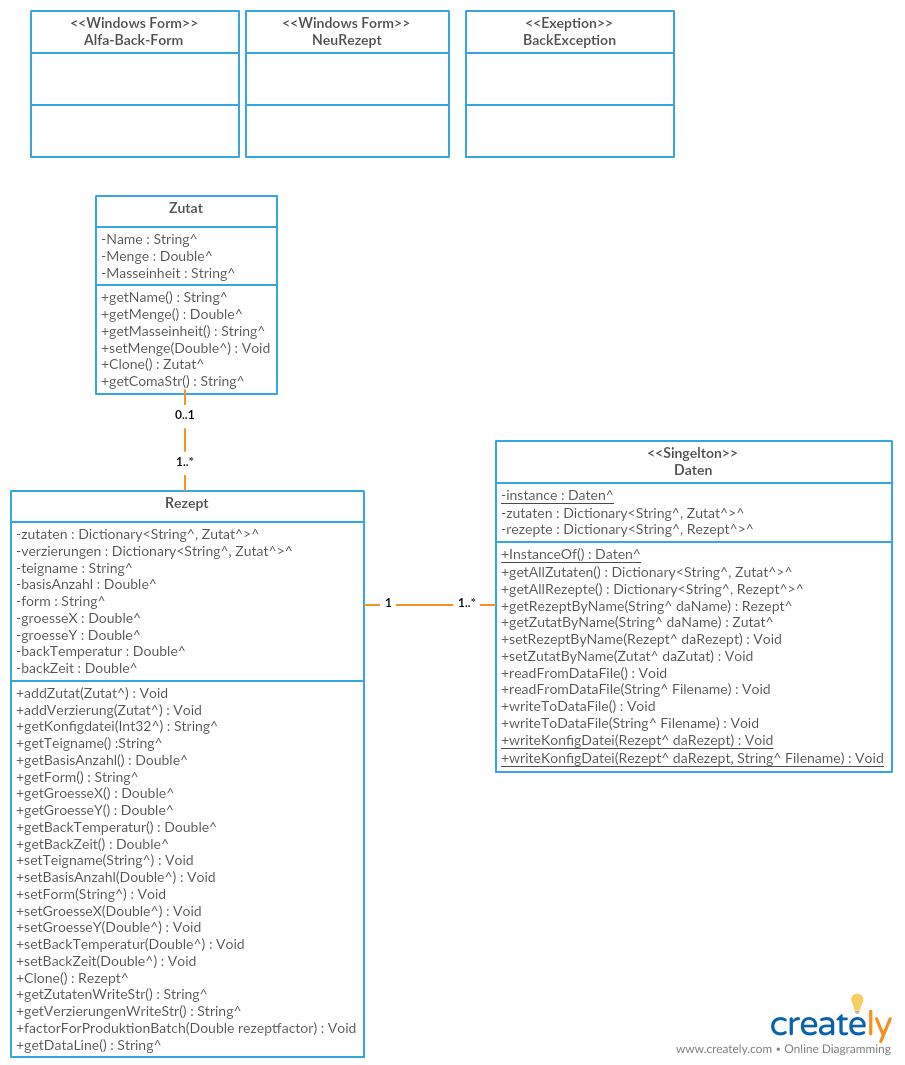
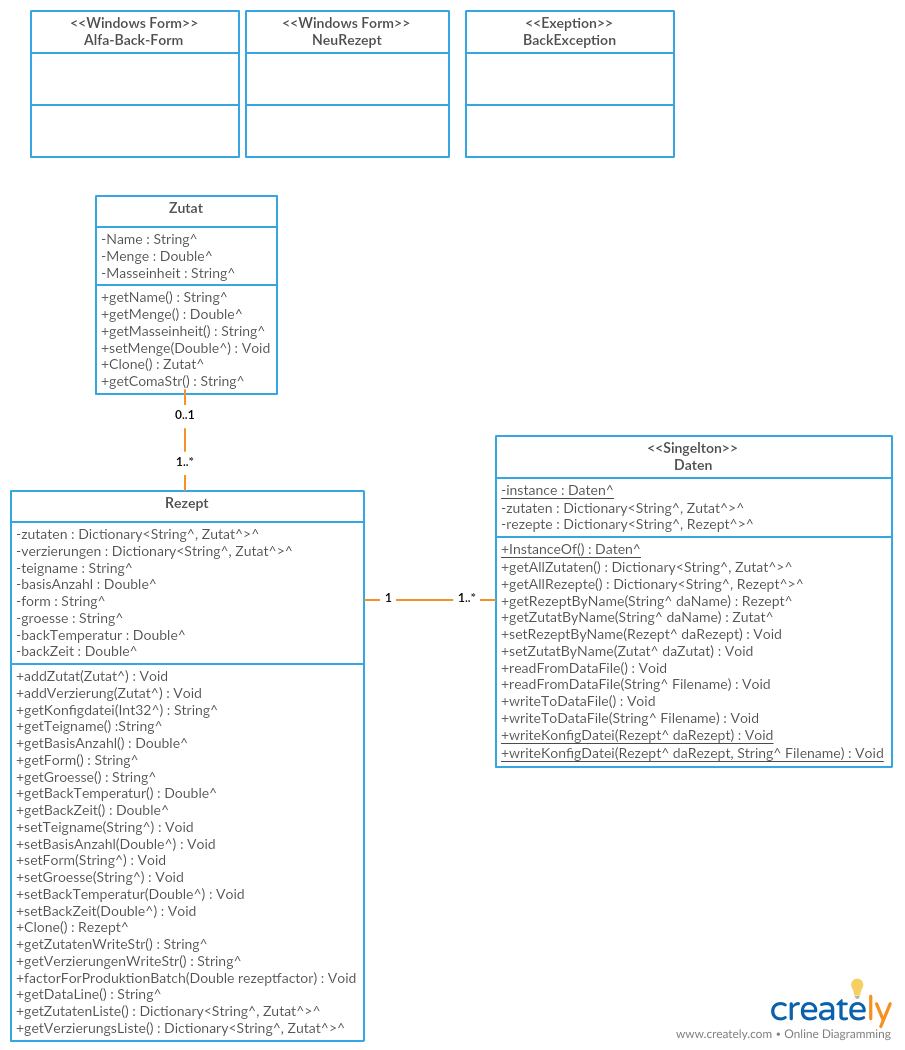
* Rezpt::groesse an neue Vorgaben angepasst; CD angepasst ; Datenspeicher angepasst

diff --git a/Alfa-Back-GUI/Rezept.cpp b/Alfa-Back-GUI/Rezept.cpp
@@ -1,12 +1,11 @@
 #include "Rezept.h"
 
-Rezept::Rezept(String^ tn, Double^ bAnz, String^ fo, Double^ gX, Double^ gY, Double^ bTemp, Double^ bz)
+Rezept::Rezept(String^ tn, Double^ bAnz, String^ fo, String^ gro, Double^ bTemp, Double^ bz)
 {
     teigname = tn;
     basisAnzahl = bAnz;
     form = fo;
-    groesseX = gX;
-    groesseY = gY;
+    groesse = gro;
     backTemperatur = bTemp;
     backZeit = bz;
 }
@@ -32,12 +31,11 @@ String^ Rezept::getKonfigdatei(Int32^ totalAnzahlKekse)
     config[0] = "teigname:" + daRezept->getTeigname();
     config[1] = "basisAnzahl:" + daRezept->getBasisAnzahl();
     config[2] = "form:" + daRezept->getForm();
-    config[3] = "groesseX:" + daRezept->getGroesseX()->ToString();
-    config[4] = "groesseY:" + daRezept->getGroesseY()->ToString();
-    config[5] = "backTemperatur:" + daRezept->getBackTemperatur()->ToString();
-    config[6] = "backZeit:" + daRezept->getBackZeit()->ToString();
-    config[7] = daRezept->getZutatenWriteStr();
-    config[8] = daRezept->getVerzierungenWriteStr();
+    config[3] = "groesse:" + daRezept->getGroesse();
+    config[4] = "backTemperatur:" + daRezept->getBackTemperatur()->ToString();
+    config[5] = "backZeit:" + daRezept->getBackZeit()->ToString();
+    config[6] = daRezept->getZutatenWriteStr();
+    config[7] = daRezept->getVerzierungenWriteStr();
     return String::Join("\t", config);
 }
 
@@ -56,14 +54,9 @@ String^ Rezept::getForm()
     return form;
 }
 
-Double^ Rezept::getGroesseX()
+String ^ Rezept::getGroesse()
 {
-    return groesseX;
-}
-
-Double^ Rezept::getGroesseY()
-{
-    return groesseY;
+    return groesse;
 }
 
 Double ^ Rezept::getBackTemperatur()
@@ -94,15 +87,9 @@ Void Rezept::setForm(String^ f)
     return Void();
 }
 
-Void Rezept::setGroesseX(Double^ gX)
+Void Rezept::setGroesse(String^ gro)
 {
-    groesseX = gX;
-    return Void();
-}
-
-Void Rezept::setGroesseY(Double^ gY)
-{
-    groesseY = gY;
+    groesse = gro;
     return Void();
 }
 
@@ -120,7 +107,7 @@ Void Rezept::setBackZeit(Double^ bZ)
 
 Rezept ^ Rezept::Clone()
 {
-    Rezept^ daClone = gcnew Rezept(teigname->ToString(), *basisAnzahl, form->ToString(), *groesseX, *groesseY, *backTemperatur, *backZeit);
+    Rezept^ daClone = gcnew Rezept(teigname->ToString(), *basisAnzahl, form->ToString(), groesse->ToString(), *backTemperatur, *backZeit);
     for each(KeyValuePair<String^, Zutat^> kvp in zutaten)
     {
         daClone->addZutat(kvp.Value->Clone());
@@ -176,12 +163,11 @@ String^ Rezept::getDataLine()
     config[0] = "teigname:" + getTeigname();
     config[1] = "basisAnzahl:" + getBasisAnzahl();
     config[2] = "form:" + getForm();
-    config[3] = "groesseX:" + getGroesseX()->ToString();
-    config[4] = "groesseY:" + getGroesseY()->ToString();
-    config[5] = "backTemperatur:" + getBackTemperatur()->ToString();
-    config[6] = "backZeit:" + getBackZeit()->ToString();
-    config[7] = getZutatenWriteStr();
-    config[8] = getVerzierungenWriteStr();
+    config[3] = "groesse:" + getGroesse();
+    config[4] = "backTemperatur:" + getBackTemperatur()->ToString();
+    config[5] = "backZeit:" + getBackZeit()->ToString();
+    config[6] = getZutatenWriteStr();
+    config[7] = getVerzierungenWriteStr();
     return String::Join("\t", config);
 }
 

diff --git a/Alfa-Back-GUI/Daten.cpp b/Alfa-Back-GUI/Daten.cpp
@@ -68,7 +68,7 @@ Void Daten::readFromDataFile()
 Void Daten::readFromDataFile(String ^ Filename)
 {
     Console::WriteLine("Fake Read data from File: " + Filename);
-    Rezept^ aRez = gcnew Rezept("Schokokeks", 100.0, "Kreis", 60.0, 60.0, 200.0, 30.0);
+    Rezept^ aRez = gcnew Rezept("Schokokeks", 100.0, "Kreis", "mittel", 200.0, 30.0);
     aRez->addZutat(gcnew Zutat("Backpulver", 100.0, "g"));
     aRez->addZutat(gcnew Zutat("Eier", 0.9, "l"));
     aRez->addZutat(gcnew Zutat("Kakao", 700.0, "g"));
